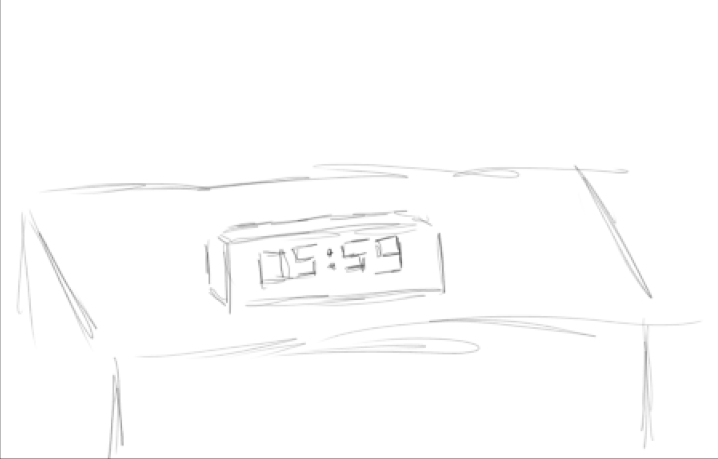
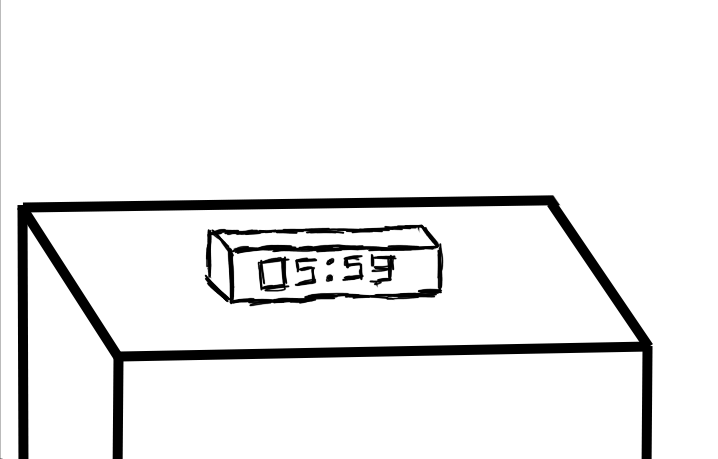
melhora os desenhos do quadrinho 3

diff --git a/quadrinhos/03/script.js b/quadrinhos/03/script.js
@@ -1,14 +1,16 @@
 const braco = document.querySelector("#braco");
 const img02 = document.querySelector("#img02");
 const img03 = document.querySelector("#img03");
+const img04 = document.querySelector("#img04");
 const anguloInicial = 270;
-const velocidade = 0.2; 
-const limiteScroll = window.innerWidth < 1276 ? 2600 : 1720;
+const velocidade = 0.082; 
 let inicio = 0;
+let limiteScroll = 0;
 
 
 function definirInicio() {
     inicio = img02.getBoundingClientRect().top + window.scrollY;
+    limiteScroll = (img04.getBoundingClientRect().top + window.scrollY - window.innerHeight * 0.65)-700;
     atualizarBraco();
 }
 
@@ -16,8 +18,6 @@ function atualizarBraco() {
     const scroll = window.scrollY;
     const antesDoInicio = scroll < inicio;
     const chegouAoFinal = scroll >= limiteScroll;
-    console.log("Scroll atual: " + scroll);
-    
     if (antesDoInicio) {
         braco.style.display = "none";
         img02.style.display = "block";

diff --git a/quadrinhos/03/style.css b/quadrinhos/03/style.css
@@ -9,15 +9,13 @@ main {
     width: 100%;
     max-width: 1400px;
     margin: 0 auto;
-    aspect-ratio: 1/1;
     position: relative;
-    height: 3400px;
 }
 
-@media screen and (max-width: 1276px) {
-    main {
-        height: 4000px;
-    }
+#cena-sticky {
+    width: 100%;
+    min-height: 2600px;
+    position: relative;
 }
 
 #img02 {
@@ -32,7 +30,7 @@ main {
 }
 
 #braco {
-    bottom: 50%;
+    bottom: 48%;
     right: 40%;
     width: min(40vw, 629px);
     max-width: calc(100vw - 2rem);
@@ -59,4 +57,16 @@ main {
 .tipo-largo {
     max-width: 718px;
     width: 100%;
+}
+
+#img04 {
+    max-width: 600px;
+    width: 100%;
+    margin: 2rem auto 0;
+}
+
+@media screen and (max-width: 1276px) {
+    #cena-sticky {
+        min-height: 3000px;
+    }
 }

diff --git a/quadrinhos/03/index.html b/quadrinhos/03/index.html
@@ -16,8 +16,11 @@
             <img src="imgs/01.3.png" class="tipo-largo" alt="">
             <img src="imgs/01.4.png" class="tipo-pequeno" alt="">
         </div>
-        <img src="imgs/02.png" id="img02" alt="">
-        <img src="imgs/03.png" id="img03" alt="">
+        <section id="cena-sticky">
+            <img src="imgs/02.png" id="img02" alt="">
+            <img src="imgs/03.png" id="img03" alt="">
+        </section>
+        <img src="imgs/04.png" id="img04" alt="">
         <img src="imgs/braco.png" id="braco" alt="">
     </main>
     <script src="script.js"></script>
